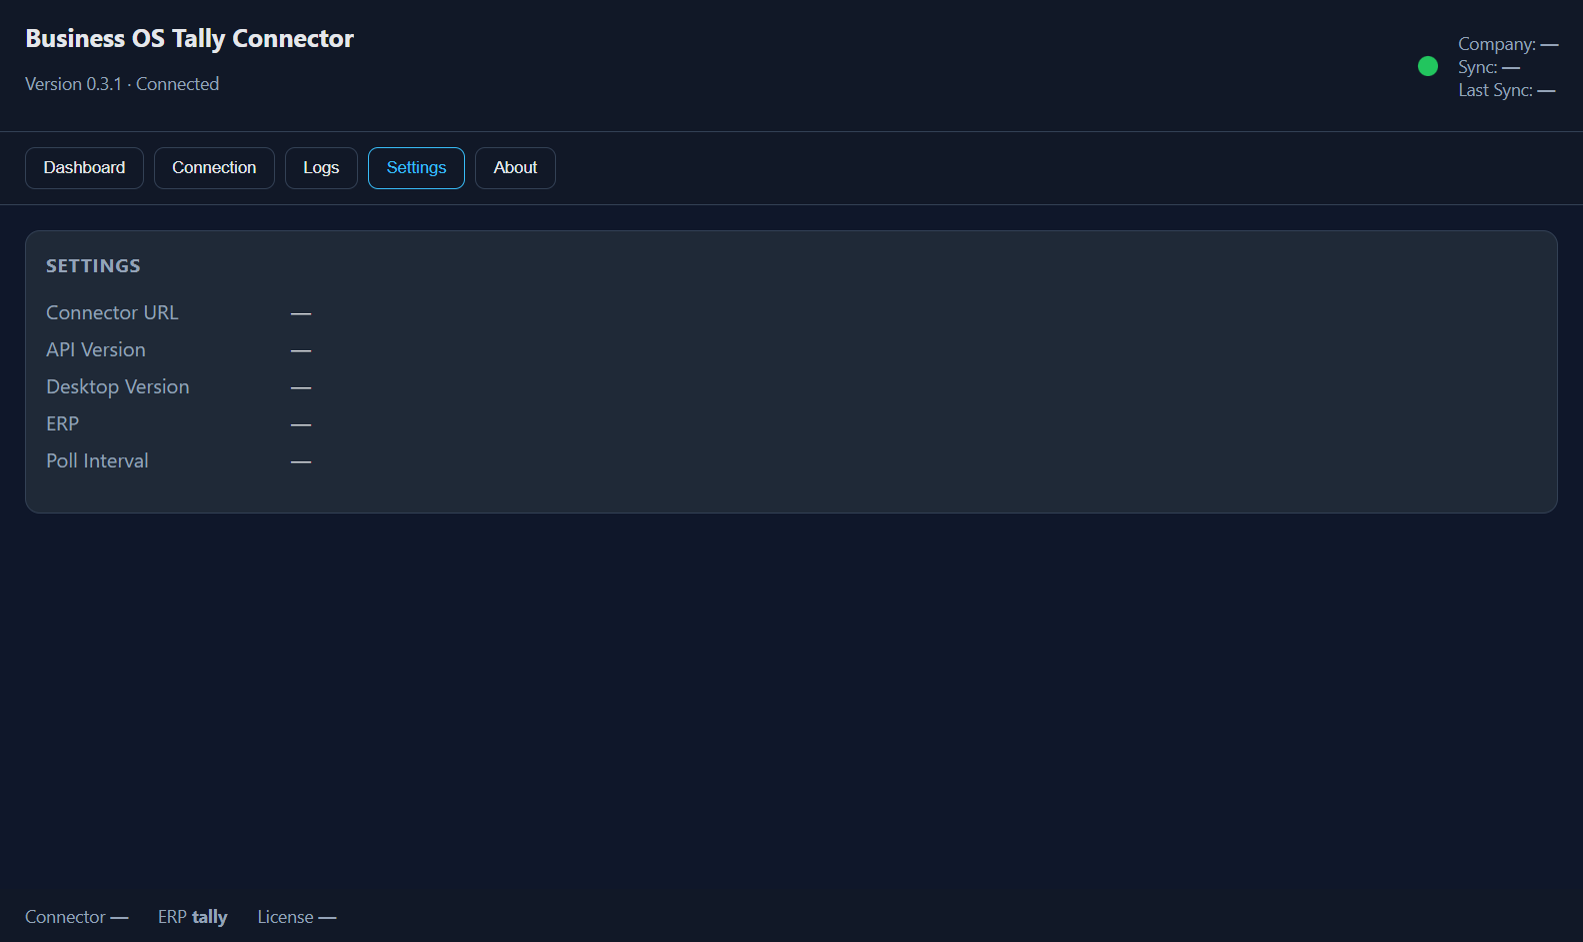
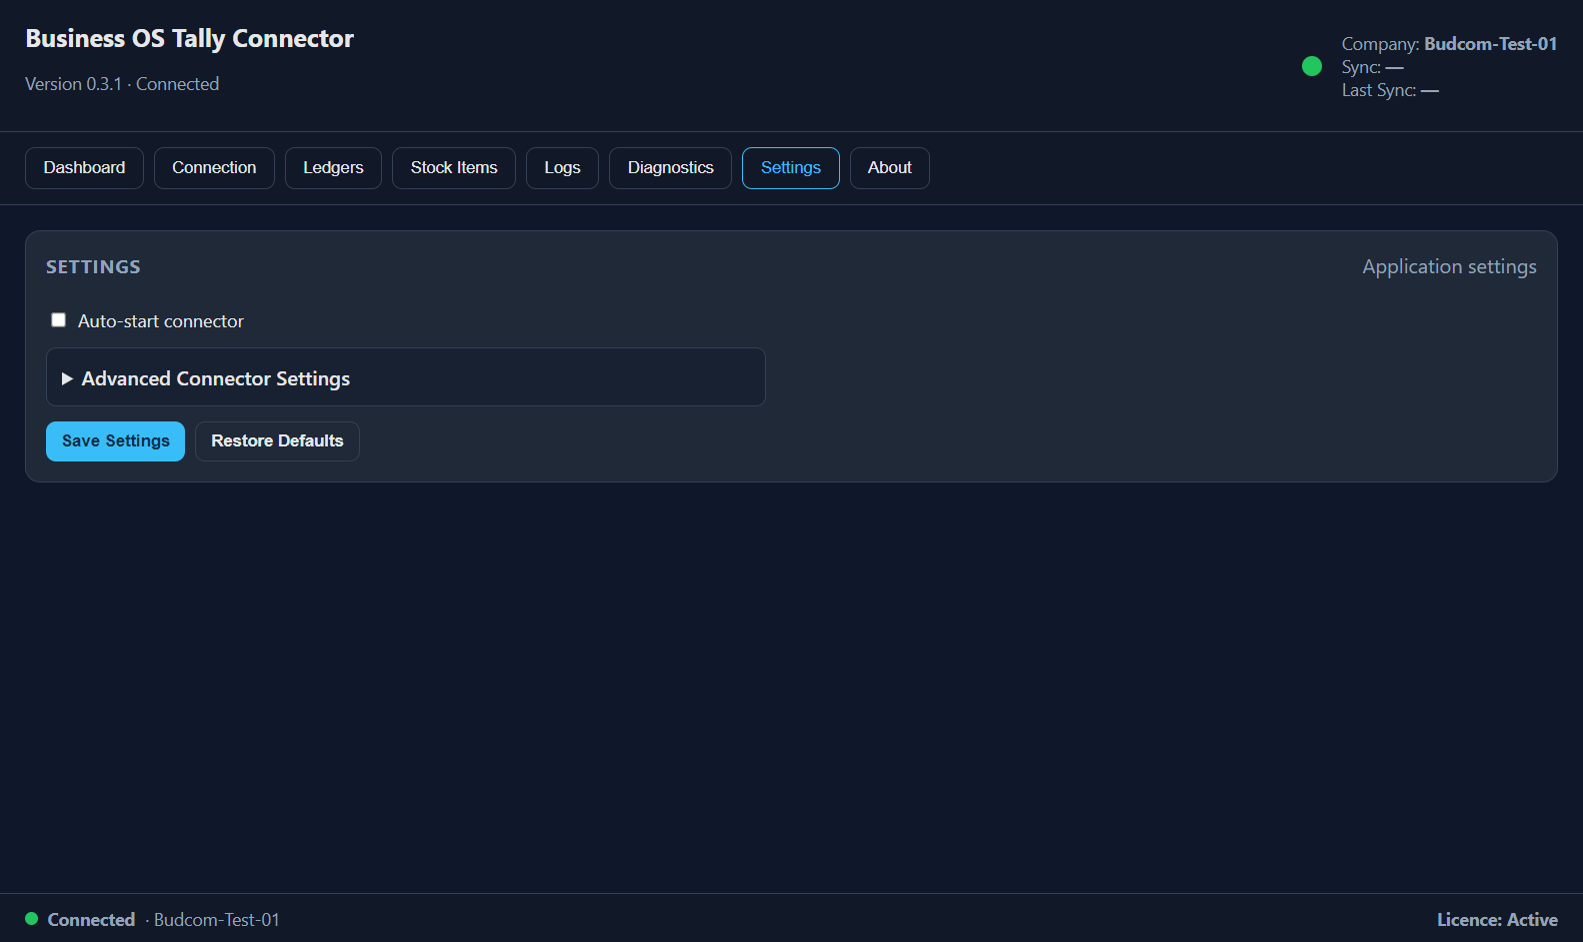
test(desktop): refresh reproducible UI screenshot evidence

diff --git a/apps/budcom_desktop/src/scripts/capture-screenshot.ts b/apps/budcom_desktop/src/scripts/capture-screenshot.ts
@@ -24,13 +24,16 @@ async function capture(): Promise<void> {
     document.getElementById('dashboard-connection').textContent = 'Connected';
     document.getElementById('connection-indicator').className = 'indicator indicator-connected';
     document.getElementById('dashboard-company-name').textContent = 'ESTIMATION';
-    document.getElementById('dashboard-company-id').textContent = 'estimation';
-    document.getElementById('dashboard-session-status').textContent = 'ACTIVE';
     document.getElementById('dashboard-erp-name').textContent = 'Tally';
     document.getElementById('dashboard-last-refresh').textContent = '2026-07-23T00:00:00.000Z';
-    document.getElementById('dashboard-desktop-version').textContent = '0.4.1';
-    document.getElementById('company-list-status').textContent = '1 companies available';
-    document.getElementById('company-list').innerHTML = '<button type="button" class="company-item selected" data-company-id="estimation"><span class="company-name">ESTIMATION</span><span class="company-id">estimation</span></button>';
+    document.getElementById('dashboard-desktop-version').textContent = '0.4.3';
+    document.getElementById('header-company').textContent = 'Budcom-Test-01';
+    document.getElementById('company-list-status').textContent = '2 companies available';
+    document.getElementById('company-list').innerHTML = '<button type="button" class="company-item selected" data-company-id="budcom-test-01" role="radio" aria-checked="true" tabindex="0"><span class="company-radio" aria-hidden="true"></span><span class="company-name">Budcom-Test-01</span><span class="company-id">budcom-test-01</span></button><button type="button" class="company-item" data-company-id="estimation" role="radio" aria-checked="false" tabindex="-1"><span class="company-radio" aria-hidden="true"></span><span class="company-name">ESTIMATION</span><span class="company-id">estimation</span></button>';
+    document.getElementById('footer-connection-indicator').className = 'status-dot status-connected';
+    document.getElementById('footer-connection-status').textContent = 'Connected';
+    document.getElementById('footer-company').textContent = '· Budcom-Test-01';
+    document.getElementById('footer-license').textContent = 'Licence: Active';
   `);
 
   await new Promise((resolve) => setTimeout(resolve, 500));
@@ -39,7 +42,7 @@ async function capture(): Promise<void> {
   fs.mkdirSync(screenshotDir, { recursive: true });
 
   const dashboardImage = await window.capturePage();
-  fs.writeFileSync(path.join(screenshotDir, 'dashboard-live.png'), dashboardImage.toPNG());
+  fs.writeFileSync(path.join(screenshotDir, 'dashboard-mvp1-after.png'), dashboardImage.toPNG());
 
   await window.webContents.executeJavaScript(`
     document.querySelector('[data-view="settings"]').click();
